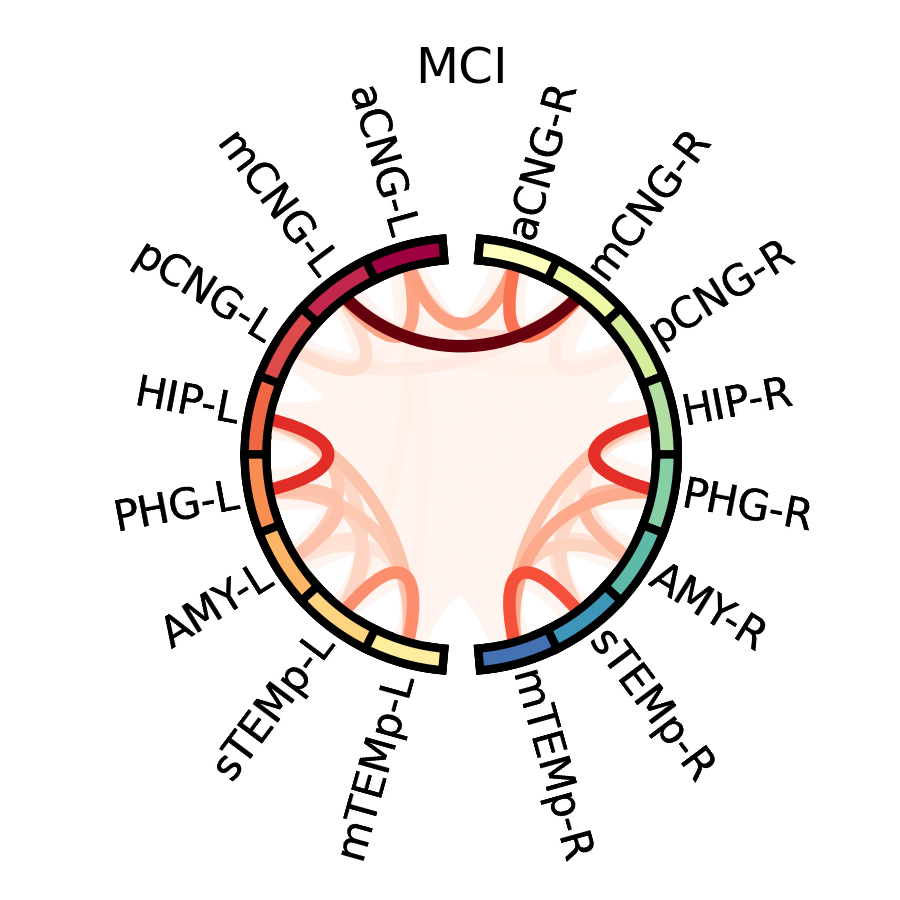
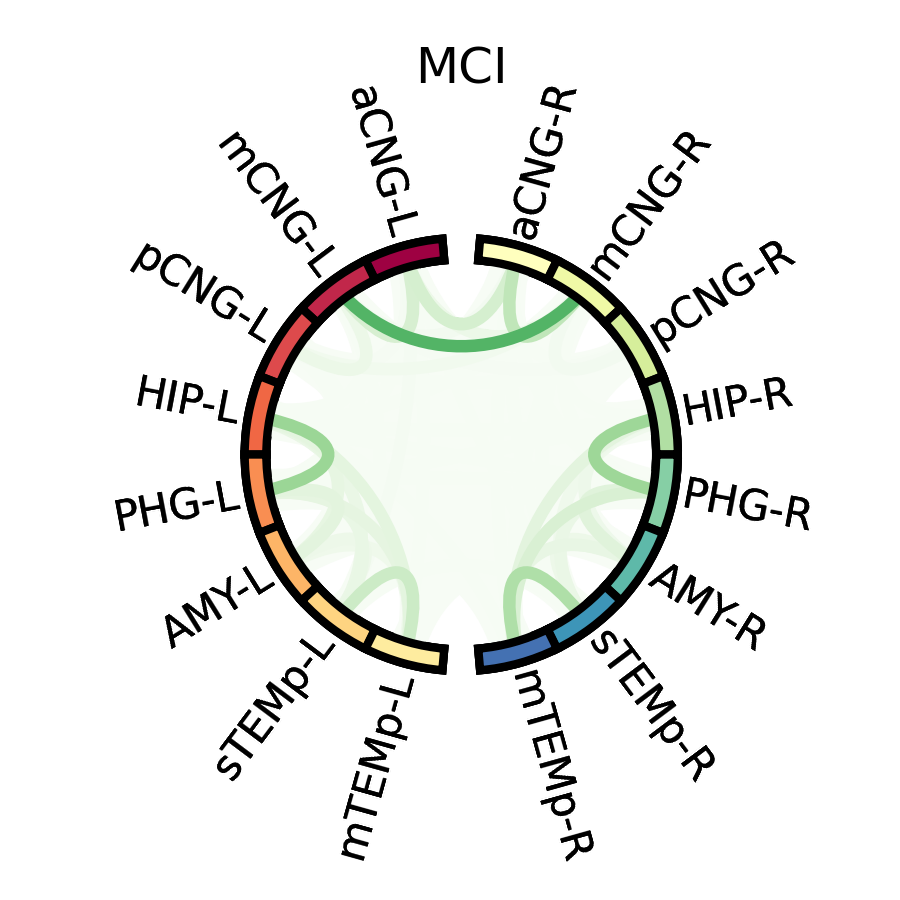
update 1.17.2022

Changed region(s): [[0.3111, 0.28, 0.6533, 0.4356], [0.56, 0.4667, 0.7467, 0.7156], [0.28, 0.4667, 0.4667, 0.7156]]

diff --git a/features/permutation_dataframe.py b/features/permutation_dataframe.py
@@ -50,7 +50,7 @@ def stats_calculator(datatable):
                 deList[x] = datatable.loc[datatable['groups'].isin([groups[x]]), [col]].values.flatten()
             tmp_list = np.array([])
             for y in comba:
-                p_value = np.round(PermutationTest(deList[y[0]], deList[y[1]], iteration = 10000, visualization = False), 4)
+                p_value = np.round(PermutationTest(deList[y[0]], deList[y[1]], iteration = 10000, visualization = False), 3)
                 tmp_list = np.append(tmp_list, p_value)
             overall_permu[a, :] = tmp_list
 
@@ -92,13 +92,13 @@ def bootstrap_groups(datatable, iternation:int, col:str):
 # amp = pd.read_excel('C:/Users/Wayne/tvb/amp_abs.xlsx')
 # freq = pd.read_excel('C:/Users/Wayne/tvb/freq.xlsx')
 # ignition=pd.read_excel('C:/Users/Wayne/R.TVB_Ignition/ignition_table_merge.xlsx', sheet_name='ignition_merge')
-data_all = pd.read_excel('C:/Users/Wayne/tvb/sc_hetero_both.xlsx', sheet_name='Sheet1')
+data_all = pd.read_excel('C:/Users/Wayne/tvb/data_all.xlsx', sheet_name='Sheet1')
 # ignition=pd.read_excel('C:/Users/Wayne/tvb/stat_data/Ignition_regroups.xlsx', sheet_name='Ignition_whole_brain')
 # integration = pd.read_excel('C:/Users/Wayne/tvb/stat_data/Ignition_regroups.xlsx', sheet_name='Integration')
 # freq_amp = pd.read_excel('C:/Users/Wayne/R.TVB_Ignition/freq_amp_combination.xlsx')
 
 
-stats_calculator(data_all).to_excel('sc_hetero_stats.xlsx')
+stats_calculator(data_all).to_excel('data_all_stats.xlsx')
 
 # bootstrap_groups(G_table, iternation=10000, col='Gc')
 

diff --git a/functions/chord.py b/functions/chord.py
@@ -32,13 +32,19 @@ for indx, grp in enumerate(grp_pools):
         df_sc = tmp_df.set_axis(node_names, axis=1) # set the columns
         df_sc = df_sc.reindex(index=split_codes, columns=split_codes)
         group_matrix[:,:,ind] = df_sc
+
+
     node_order = list()
     node_order.extend(split_codes[:8])  # reverse the order
     node_order.extend(split_codes[8:][::-1])
     node_angles = circular_layout(split_codes, node_order, start_pos=90,
                                 group_boundaries=[0, len(split_codes) / 2])
+    # node_angles[0:4] += 15
+    # node_angles[4:8] -= 15
+    # node_angles[8:12] -= 15
+    # node_angles[12:16] += 15
 
-    fig, axis = plot_connectivity_circle(np.array(np.mean(group_matrix, 2)), split_codes, node_angles=node_angles,colormap='Reds', facecolor='white', textcolor='black', colorbar=False, linewidth=3, title=grp, fontsize_names=10, show=False, fig = fig1)
+    fig, axis = plot_connectivity_circle(np.tril(np.array(np.mean(group_matrix, 2))), split_codes, node_angles=node_angles,colormap='Greens', facecolor='white', textcolor='black', colorbar=False, linewidth=3, title=grp, fontsize_names=10, show=False, fig = fig1, vmin=0, vmax=132.0)
     fig.savefig(f"{grp}_sc.png", dpi=300)
 
 

diff --git a/features/trimer.py b/features/trimer.py
@@ -49,7 +49,7 @@ if __name__ == "__main__":
             dFCstream = TS2dFCstream(df2.to_numpy(), 5, None, '2D')
             MC_Trimers = dFCstream2Trimers(dFCstream)
             # do the averaging in the dimension3
-            MC_avg = np.mean(MC_Trimers, 2) #n x n 
+            MC_avg = np.mean(MC_Trimers, 2) #n x n
             tmp_trimer = np.array([])
             tmp_heter = np.array([])
             # pick up homotopic connection
